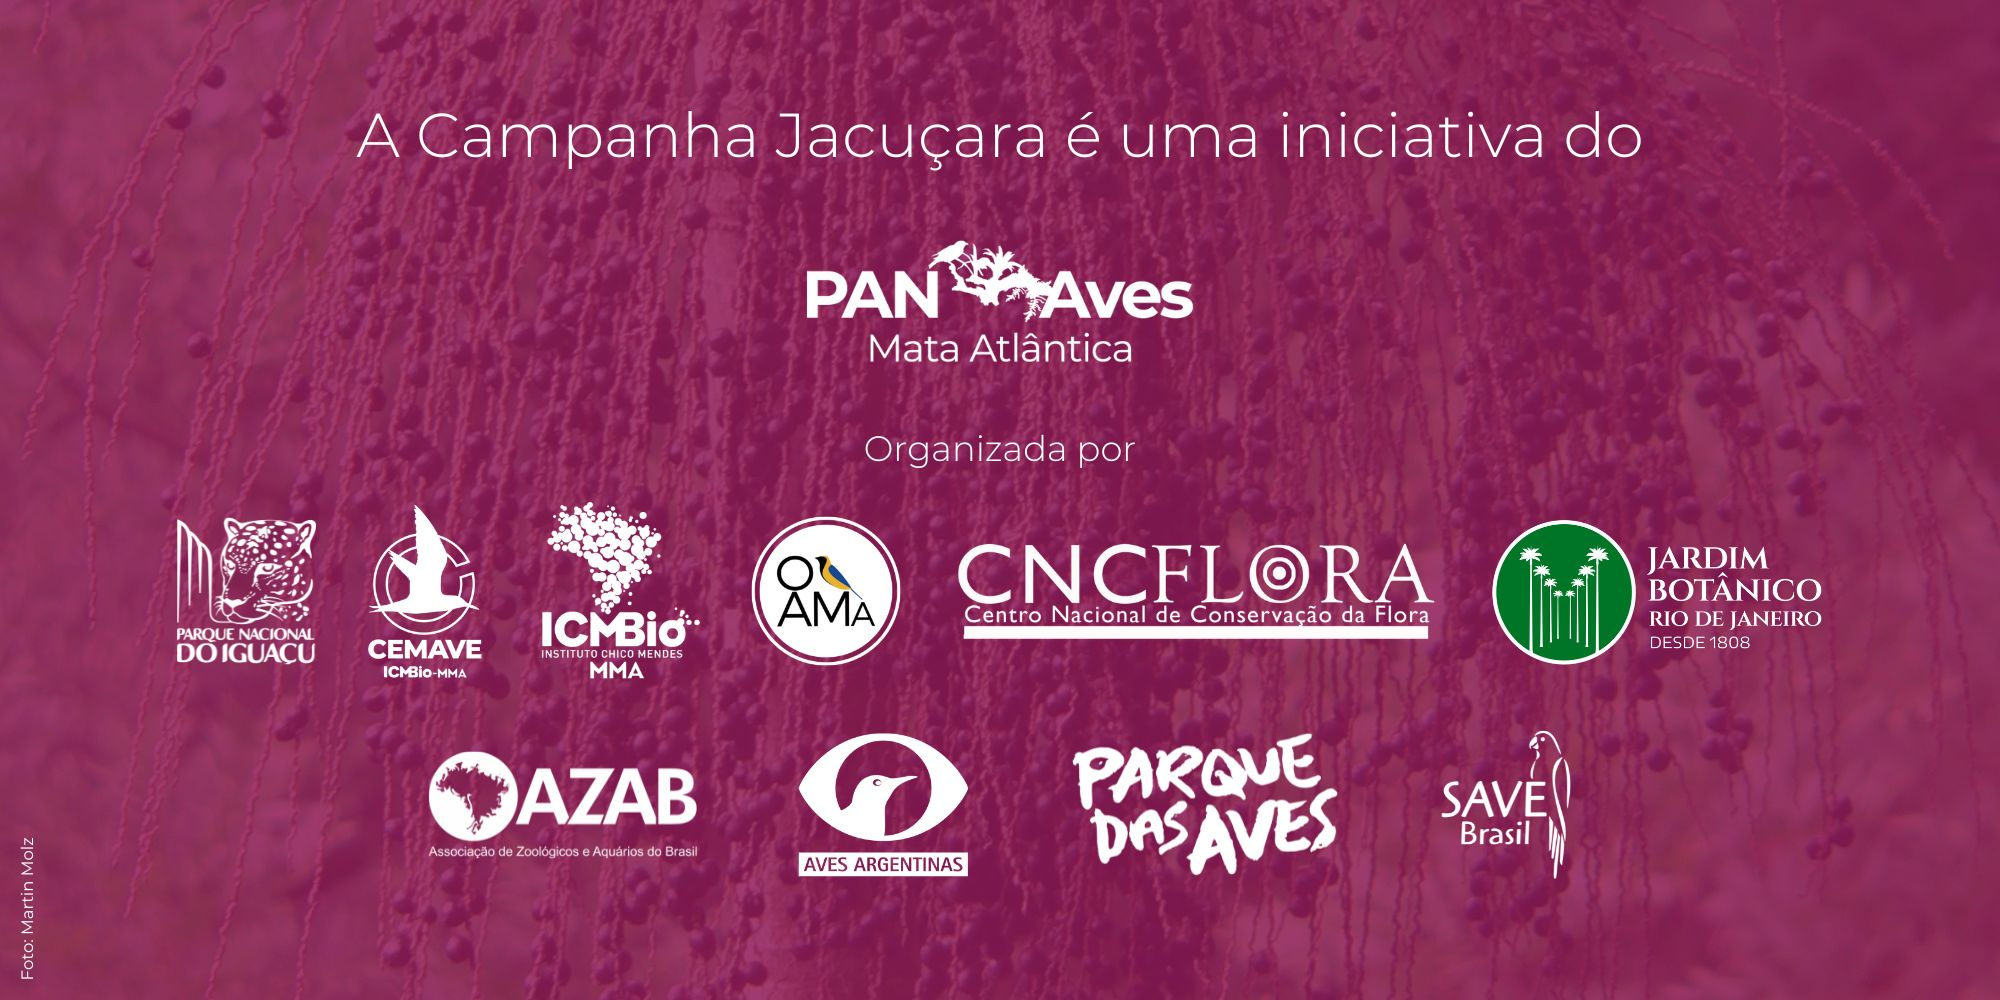
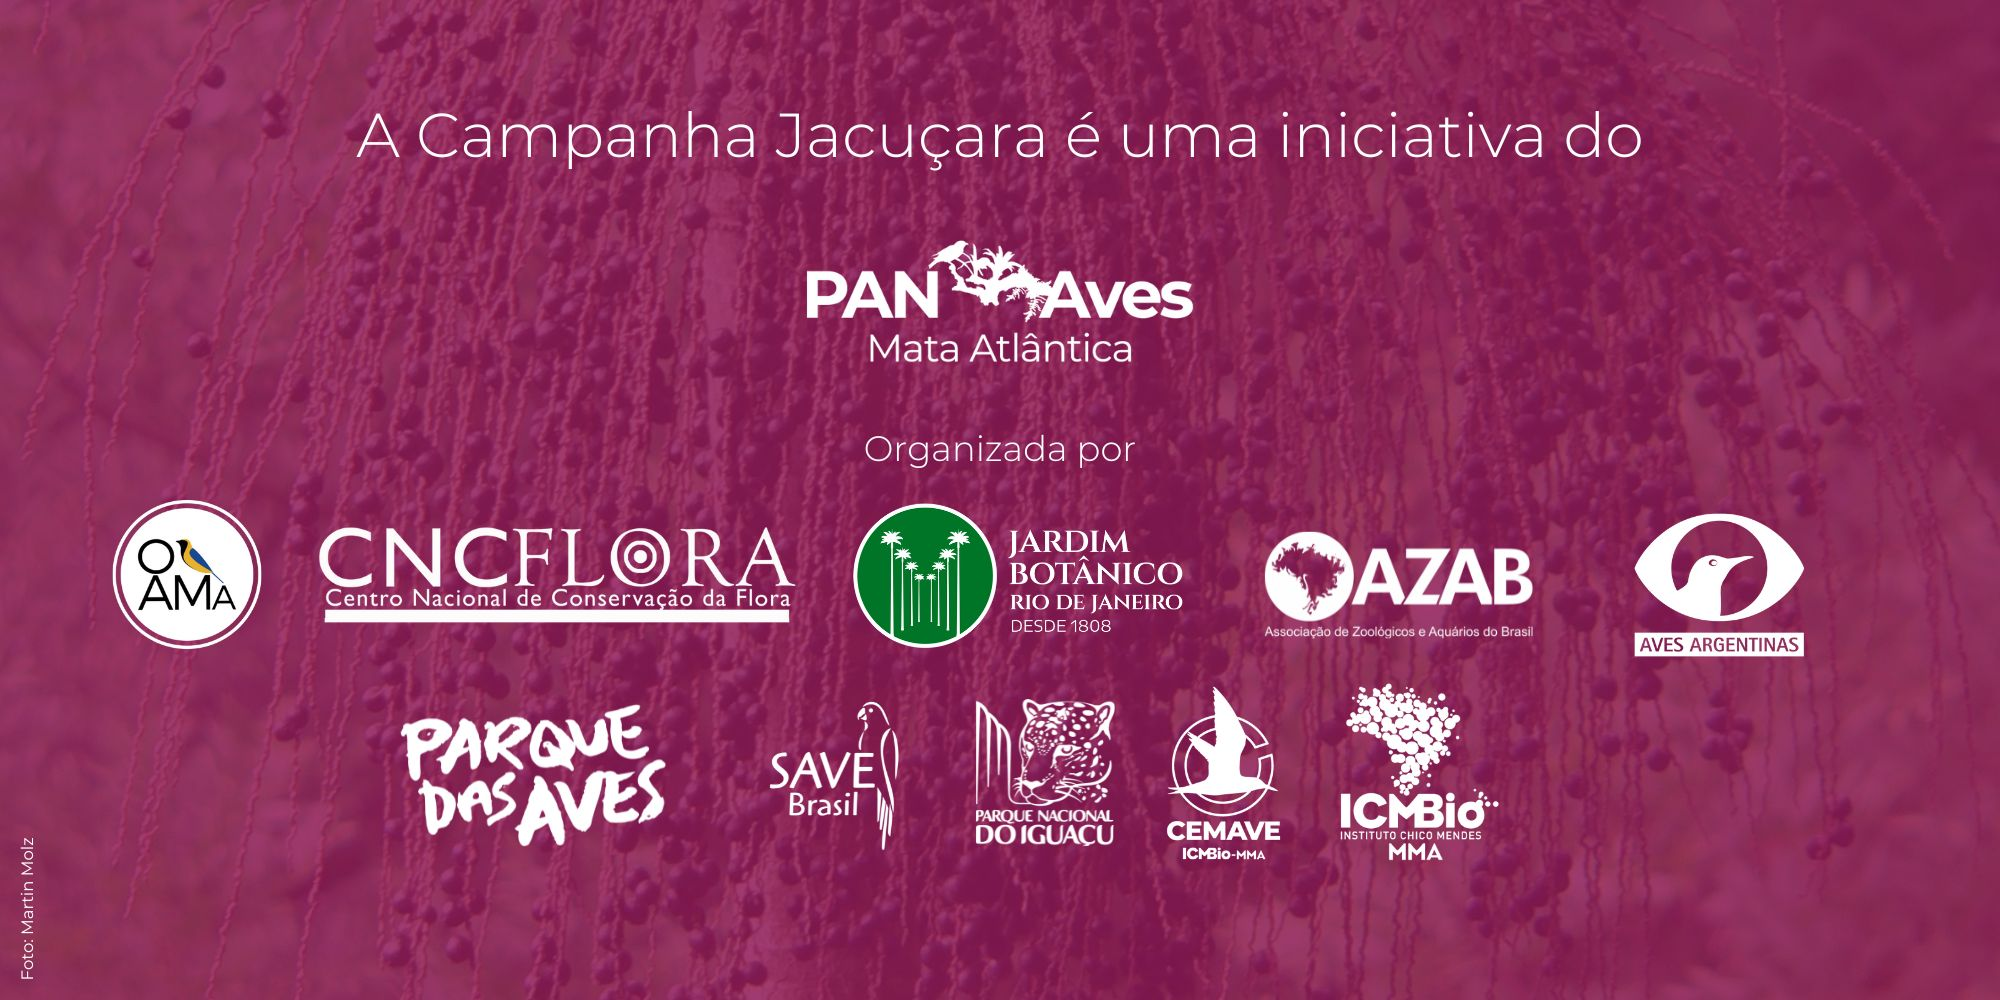
dixes

Changed region(s): [[0.031, 0.496, 0.93, 0.682], [0.186, 0.682, 0.806, 0.899]]

diff --git a/pages/jacucara/index.js b/pages/jacucara/index.js
@@ -72,7 +72,7 @@ export default function Jacucara() {
             de extinção, que você pode ajudar a proteger.
           </P>
           <P>
-            A campanha é uma iniciativa do
+            A campanha é uma iniciativa do 
             <A
               href="https://www.gov.br/icmbio/pt-br/assuntos/biodiversidade/pan/pan-aves-da-mata-atlantica"
               target="_blank"
@@ -225,7 +225,7 @@ export default function Jacucara() {
           </div>
           <P>
             Há uma espécie de ave com uma relação tão marcante com a palmeira
-            juçara que a sua sobrevivência está fortemente relacionada com o com
+            juçara que a sua sobrevivência está fortemente relacionada com
             a palmeira. Essa ave é a jacutinga (<i>Aburria jacutinga</i>).{" "}
           </P>
           <Fig number={6} />
@@ -705,14 +705,15 @@ const logos = [
     website: "https://www.azab.org.br/",
   },
   { name: "Aves Argentinas", website: "https://www.avesargentinas.org.ar/" },
-  { name: "PN Iguaçu", website: "https://cataratasdoiguacu.com.br/" },
-  { name: "cemave icmbio", website: "https://www.gov.br/icmbio/pt-br" },
+
   { name: "CNCFlora", website: "http://cncflora.jbrj.gov.br/portal" },
   { name: "JBRJ", website: "https://www.gov.br/jbrj/pt-br" },
   { name: "OAMA", website: "https://oama.eco.br" },
 
   { name: "Parque das Aves", website: "https://www.parquedasaves.com.br/" },
   { name: "save", website: "http://savebrasil.org.br/" },
+  { name: "PN Iguaçu", website: "https://cataratasdoiguacu.com.br/" },
+  { name: "cemave icmbio", website: "https://www.gov.br/icmbio/pt-br" },
 ];
 
 const Logos = () => {
